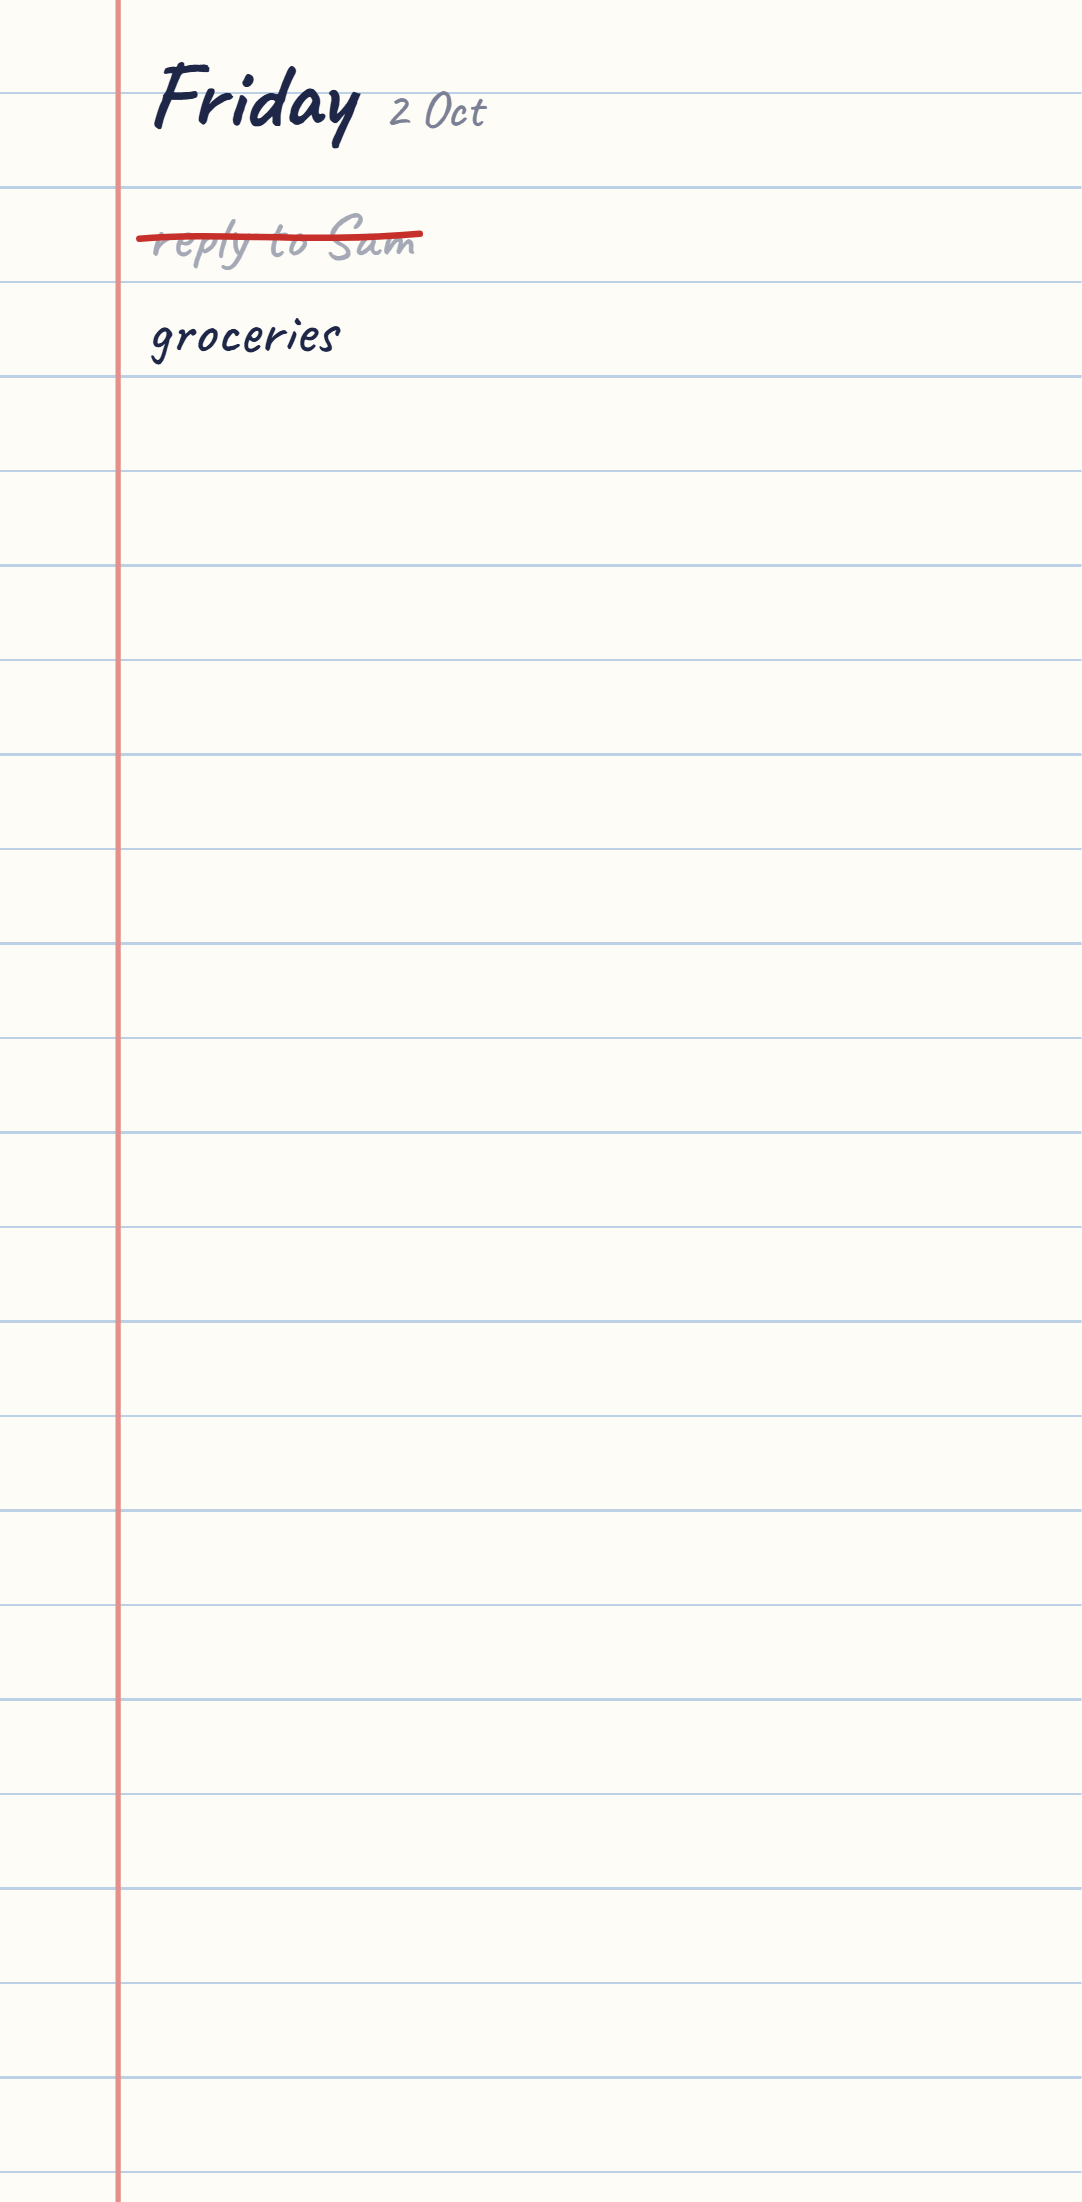
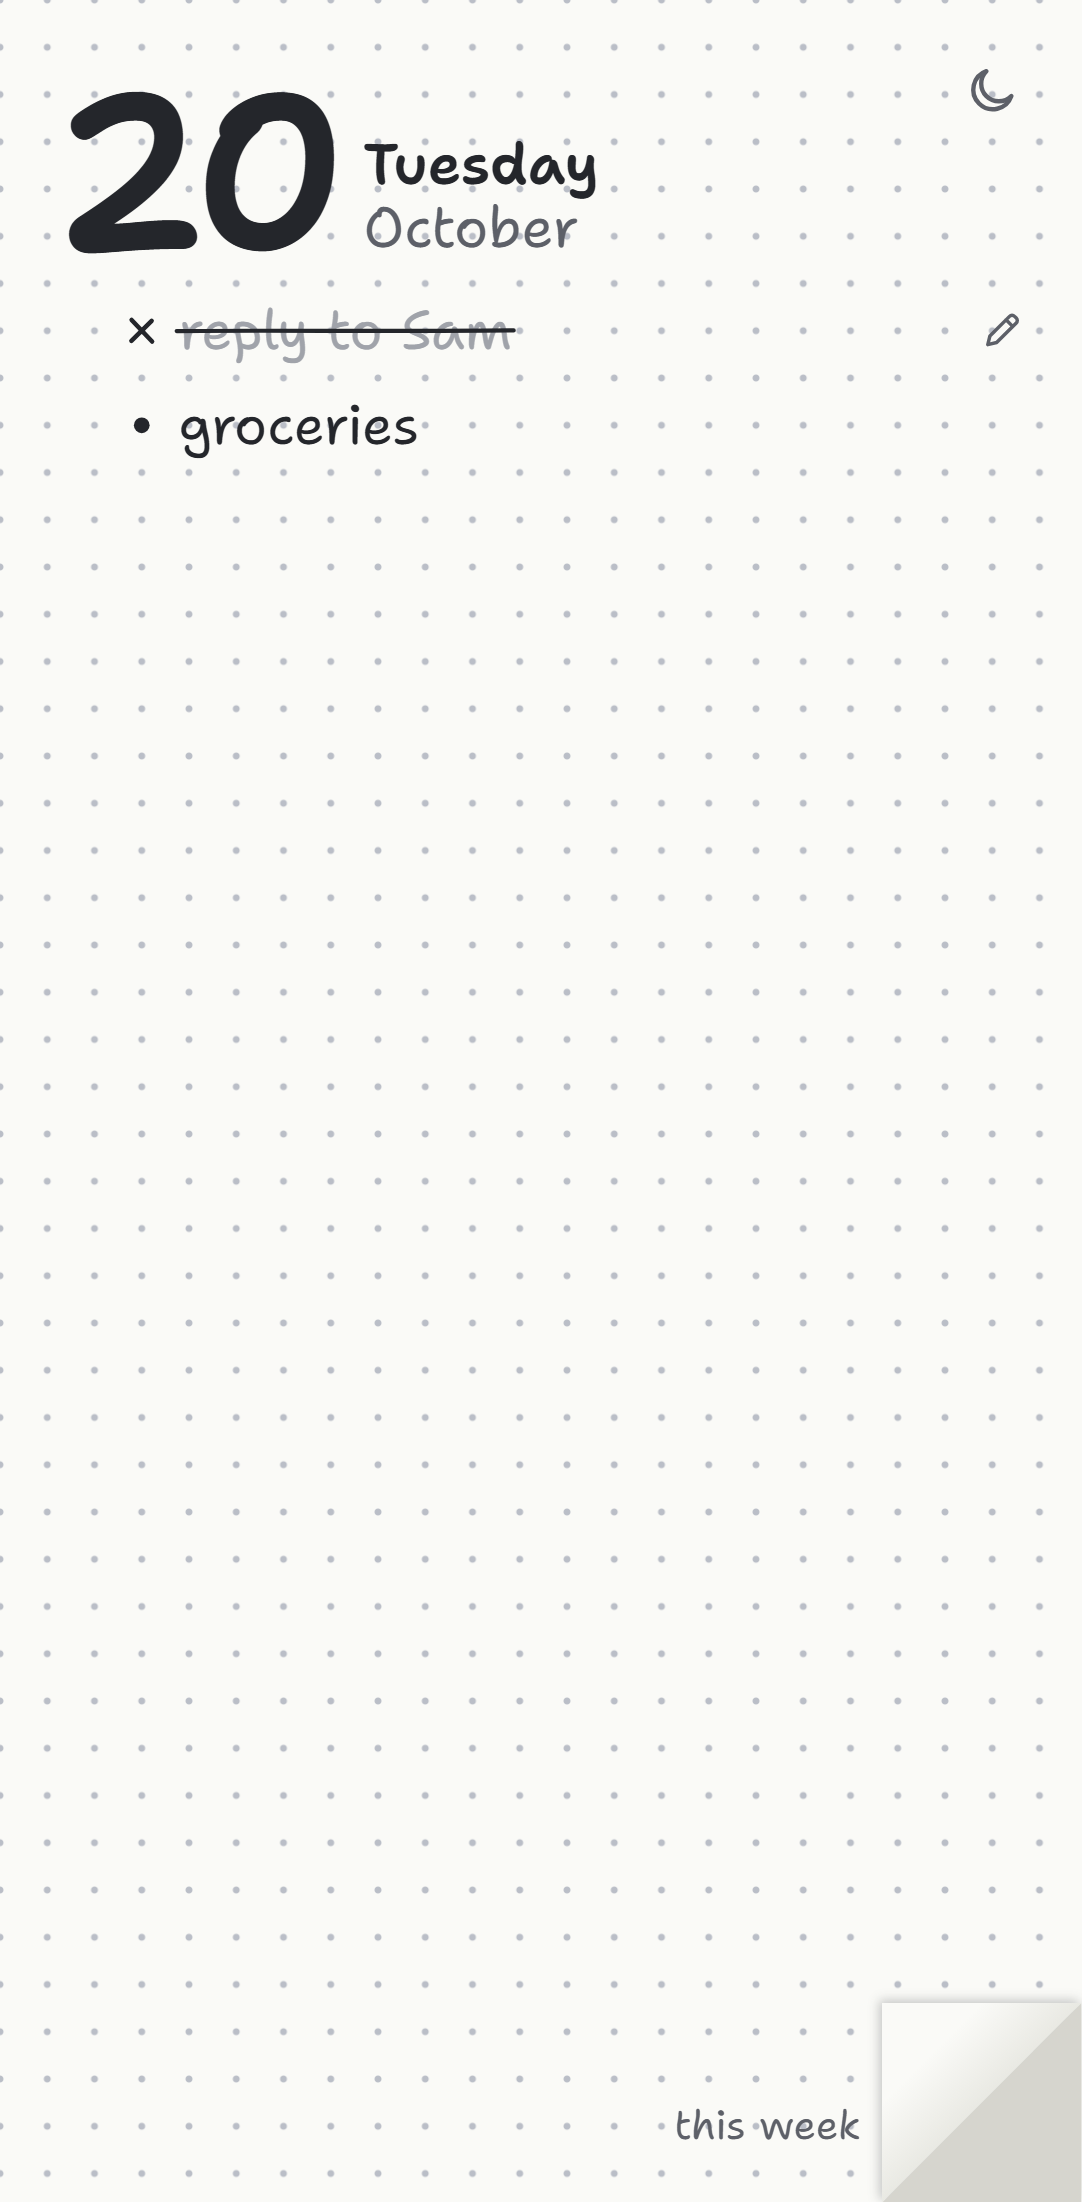
docs: describe the dot-grid journal, the folded corner and night pages

diff --git a/docs/spec.md b/docs/spec.md
@@ -25,7 +25,7 @@ Phone and laptop. Installable web app (PWA), one codebase, synced between device
 
 ## 3. Experience
 
-Layout: notebook page. Lined paper, margin line, handwritten-style font, date at top. Parked alternatives: free page and desk scraps.
+Layout: a dot-grid journal. Dot-grid paper, a handwritten-style font, the day's date as a large numeral at the top. Wide screens show the journal open: today on the left page, This week and old pages on the right. Phones show one page at a time, and a folded corner turns to the other. Parked alternatives: free page and desk scraps.
 
 | Action | Desktop | Phone |
 |---|---|---|
@@ -34,22 +34,25 @@ Layout: notebook page. Lined paper, margin line, handwritten-style font, date at
 | Edit a task | Click the text | Tap the text |
 | Make a sub-step | Tab (Shift+Tab to undo) | ⇥ / ⇤ buttons in a bar above the keyboard while editing |
 | Cross off / undo | Drag the mouse across the line | Swipe a finger across the line |
-| Reorder | Drag the ⠿ handle that appears on hover at the line's left edge | Long-press, then drag |
-| Margin mark | Click margin to cycle: none, ★, !, ? | Tap margin |
+| Reorder | Drag the dotted grip that appears on hover at the line's left edge | Long-press, then drag |
+| Margin mark | Click the margin to cycle: none, star (highlights the line), !, ? | Tap the margin |
 | Delete | Backspace on an empty line | Backspace on an empty line |
+| Night pages | Click the moon in today's header | Tap the moon |
 
-- Crossing off animates a red hand-drawn pen stroke across the text. Crossed-off tasks stay on the page, greyed.
+- Each line starts with a bullet dot. Crossing off turns the dot into a cross and draws a thin pen stroke across the text. Crossed-off tasks stay on the page, greyed.
 - Sub-steps are one level deep only (indent 0 or 1).
-- Marks are hand-drawn style glyphs. Freehand drawing is not in v1.
+- ! and ? sit in the margin; a star highlights the line instead. Freehand drawing is not in v1.
 - Crossing off is a horizontal stroke across the line, like running a pen through it. The same stroke across a crossed-off task un-crosses it. Tap/click only ever places the cursor for editing.
 
-**Old pages.** Each morning today's page starts blank. Every earlier day that still has unfinished lines appears as a small torn-off page pinned beside today, newest on top, with older pages peeking out underneath. Lines on an old page can be crossed off, or dragged onto today or into This week (the line moves), but nothing can be added or edited. When every line is crossed off the page greys out and offers "Bin page"; a page can also be binned early, which takes a second tap ("Bin 3 open lines?") because binning can't be undone. The point is to keep a backlog in view without crowding today's list.
+**Old pages.** Each morning today's page starts blank. Every earlier day that still has unfinished lines is listed under This week, newest first. Lines on an old page can be crossed off, sent to the end of today with the > at the end of the line, or dragged onto today or into This week (the line moves), but nothing can be added or edited. When every line is crossed off the page greys out and offers "bin page"; a page can also be binned early, which takes a second tap ("bin 3 open lines?") because binning can't be undone. The point is to keep a backlog in view without crowding today's list.
 
-**Notes.** Any task or goal can hold a free-text note, like writing on the back of the card. A small ✎ at the end of a line (shown while you're on the line, always when a note exists) unfolds the note in place under the line; Escape or ✎ folds it. Enter adds a new line inside the note. Notes move with their line everywhere and are read-only on old pages. A line with blank text but a note still counts as a real line.
+**Notes.** Any task or goal can hold a free-text note, like writing on the back of the card. A small pencil at the end of a line (shown while you're on the line, always when a note exists) unfolds the note in place under the line; Escape or the pencil folds it. Enter adds a new line inside the note. Notes move with their line everywhere and are read-only on old pages. A line with blank text but a note still counts as a real line.
 
-**Week goals.** A "This week" sticky note holds a few bigger aims for the week. On wide screens it sits bottom-right beside the page; on phones it folds into a `Week · N` tab that opens it. Type a goal into the note, or drag a task from today onto it (the task moves). Drag a goal back onto today's page to move it back. Goals cross off with the same stroke as tasks and can be reordered. A week runs Monday to Sunday on the same 4am boundary. When a new week starts, the note offers last week's unfinished goals with a Bring all / pick / dismiss note.
+**Week goals.** This week holds a few bigger aims for the week, at the top of the right-hand page (the second page on phones). Type a goal in, or drag a task from today onto it (the task moves); on a phone, drop the task on the folded corner. Drag a goal back onto today's page to move it back; on a phone, drop it on the "back to today" corner. Goals cross off with the same stroke as tasks and can be reordered. A week runs Monday to Sunday on the same 4am boundary. When a new week starts, the week offers last week's unfinished goals with a Bring all / pick / dismiss note.
 
-**Not in v1:** browsing past days beyond old pages, settings, reminders/notifications, stats/streaks, themes, freehand drawing, sharing.
+**Night pages.** A moon in today's header turns the journal dark: black pages, white ink, pink crossing off. The choice is remembered on the device.
+
+**Not in v1:** browsing past days beyond old pages, settings (the night switch is the only one), reminders/notifications, stats/streaks, themes beyond night pages, freehand drawing, sharing.
 
 ## 4. Day rules
 

diff --git a/README.md b/README.md
@@ -5,9 +5,12 @@
 A today-only task list that feels like the pen-and-paper list you write each morning. It's an installable, offline-first web app (PWA) for phone and laptop.
 
 <p>
-  <img src="docs/screenshots/desktop.png" alt="Today on desktop: a lined notebook page headed Friday 2 Oct, with 'reply to Sam' crossed off in red pen and 'groceries' below" width="560">
+  <img src="docs/screenshots/desktop.png" alt="Today on desktop: a dot-grid journal lying open, today's list on the left page with 'reply to Sam' crossed off, This week on the right page" width="560">
   &nbsp;
-  <img src="docs/screenshots/phone.png" alt="Today on a phone: the same notebook page at phone width" width="200">
+  <img src="docs/screenshots/phone.png" alt="Today on a phone: one dot-grid page with a folded corner at the bottom right" width="200">
+</p>
+<p>
+  <img src="docs/screenshots/desktop-night.png" alt="Night pages: the same journal with black pages and white ink" width="560">
 </p>
 
 ## Why
@@ -16,14 +19,15 @@ Task apps tend to feel worse than paper. Paper is always ready, crossing things 
 
 ## Features
 
-- **Notebook page:** lined paper, a margin line, a handwritten-style font, and the date at the top.
+- **Dot-grid journal:** dot-grid paper, a handwritten-style font and the date as a big numeral. On a wide screen the journal lies open: today on the left, the week and old pages on the right.
 - **Write line by line:** Enter for a new line, Tab / Shift+Tab for one level of sub-steps, Backspace on an empty line to delete it.
-- **Cross off with a stroke:** drag the mouse or swipe a finger across a line to draw a red pen stroke through it. Do it again to undo.
-- **Margin marks:** click or tap the margin to cycle ★, ! and ?.
-- **Reorder:** drag the ⠿ handle on desktop, or long-press and drag on a phone.
-- **Old pages:** unfinished tasks from earlier days stay pinned beside today as small torn-off pages. Drag a line onto today or into the week when you're ready for it, and bin the page once it's done.
-- **Notes:** tap the ✎ at the end of a line to unfold a note under it, for the details behind a short task.
-- **This week:** a sticky note of goals for the week. Drag a task onto it, drag a goal back to today, and bring last week's unfinished goals forward.
+- **Cross off with a stroke:** drag the mouse or swipe a finger across a line to turn its bullet into a cross and draw a pen stroke through it. Do it again to undo.
+- **Marks:** click or tap the margin to highlight a line, or mark it ! or ?.
+- **Reorder:** drag the dotted grip on desktop, or long-press and drag on a phone.
+- **Old pages:** unfinished tasks from earlier days stay listed under the week. Tap > to send a line to today, or drag it onto today or into the week, and bin the page once it's done.
+- **Notes:** tap the pencil at the end of a line to unfold a note under it, for the details behind a short task.
+- **This week:** goals for the week on the facing page (a folded corner away on a phone). Drag a task onto it, drag a goal back to today, and bring last week's unfinished goals forward.
+- **Night pages:** a moon in the header turns the journal dark, and it stays that way on that device.
 - **4am day boundary:** 02:30 Friday still counts as Thursday.
 - **Phone keyboard bar:** ⇥ / ⇤ buttons above the keyboard for sub-steps.
 - **Installable and offline:** works with no connection; data is stored on the device.
